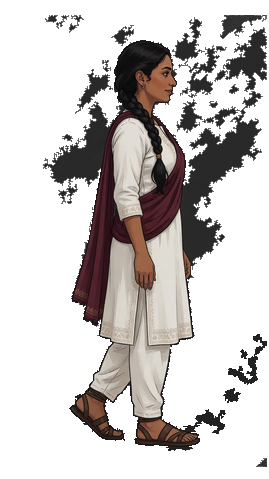
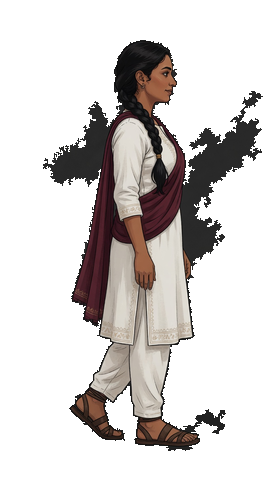
feat(pilgrimage): continue the road from tablets, transparent walkers, trickier Fade fakes

diff --git a/js/play.js b/js/play.js
@@ -1655,19 +1655,76 @@ function fadePhraseAsVerse(q, phrase){
   if(suffix) text += /^[.,;:!?]/.test(suffix) ? suffix : " " + suffix;
   return text;
 }
+/* One-word near-misses a skimming eye reads as the verse it memorized:
+   archaic-to-modern swaps, article flips and conjunction changes, first
+   occurrence only so every fake differs from the truth by a single word.
+   These replace the old always-different stock pads as the primary
+   reconstruction challenge. */
+const FADE_LINE_EDITS = [
+  [/^The\b/, "A"], [/^A\b/, "The"],
+  [/\bthe\b/, "a"], [/\ba\b/, "the"],
+  [/\bshall\b/, "will"], [/\bwill\b/, "shall"],
+  [/\bshould\b/, "would"], [/\bwould\b/, "should"],
+  [/\bthee\b/, "you"], [/\bthou\b/, "you"], [/\bthy\b/, "your"], [/\bthine\b/, "your"],
+  [/\bye\b/, "you"], [/\byou\b/, "ye"],
+  [/\bhath\b/, "has"], [/\bdoth\b/, "does"], [/\bdoeth\b/, "does"],
+  [/\bsaith\b/, "says"], [/\bgoeth\b/, "goes"], [/\bcometh\b/, "comes"],
+  [/\bmaketh\b/, "makes"], [/\btaketh\b/, "takes"], [/\bgiveth\b/, "gives"],
+  [/\bknoweth\b/, "knows"], [/\bloveth\b/, "loves"],
+  [/\bshew\b/, "show"], [/\bunto\b/, "to"], [/\bupon\b/, "on"],
+  [/\bamong\b/, "amongst"], [/\btoward\b/, "towards"],
+  [/\bheaven\b/, "heavens"], [/\bheavens\b/, "heaven"],
+  [/\bsin\b/, "sins"], [/\bword\b/, "words"], [/\bwords\b/, "word"],
+  [/\bverily\b/, "truly"], [/\bbehold\b/, "see"],
+  [/\bthis\b/, "that"], [/\bthese\b/, "those"], [/\bthose\b/, "these"],
+  [/\band\b/, "or"], [/\bor\b/, "and"]
+];
+function fadeLineEdits(text){
+  const out = [];
+  FADE_LINE_EDITS.forEach(function(rule){
+    if(!rule[0].test(text)) return;
+    const edited = text.replace(rule[0], rule[1]);
+    if(edited !== text && out.indexOf(edited) < 0) out.push(edited);
+  });
+  return out;
+}
 function fadePickChoices(q){
   const truth = fullVerseText(q);
   const seen = {};
   seen[truth] = 1;
-  const pads = (q.d || []).concat(["the shadow of the deep","a still small voice","the dust of the ground"]);
-  const fakes = [];
-  pads.forEach(function(d){
-    if(fakes.length >= 3) return;
-    const line = fadePhraseAsVerse(q, d);
-    if(!seen[line]){ seen[line] = 1; fakes.push(line); }
-  });
   const rnd = R.mode==="daily" && R.daily && R.daily.rnd ? R.daily.rnd : Math.random;
-  return shuffle([truth].concat(fakes.slice(0, 3)), rnd);
+  const fakes = [];
+  function pushFake(line){
+    line = String(line || "").trim();
+    if(!line || fakes.length >= 3 || seen[line]) return;
+    seen[line] = 1;
+    fakes.push(line);
+  }
+  /* 1) one-word edits of the memorized line — the trap that costs a lamp.
+     Three close fakes where the verse allows it; the eye must know the line. */
+  const edits = fadeLineEdits(truth);
+  while(edits.length && fakes.length < 3){
+    pushFake(edits.splice(Math.floor(rnd()*edits.length), 1)[0]);
+  }
+  /* 2) the verse's own designed decoy phrases */
+  (q.d || []).forEach(function(d){
+    pushFake(fadePhraseAsVerse(q, d));
+  });
+  /* 3) answers from sibling verses of the same book — same voice, different verse */
+  if(fakes.length < 3 && typeof VERSES !== "undefined" && VERSES.forEach){
+    const sibs = [];
+    VERSES.forEach(function(v){
+      if(v && v.b === q.b && v.id !== q.id && v.a && v.a !== q.a && sibs.indexOf(v.a) < 0) sibs.push(v.a);
+    });
+    while(sibs.length && fakes.length < 3){
+      pushFake(fadePhraseAsVerse(q, sibs.splice(Math.floor(rnd()*sibs.length), 1)[0]));
+    }
+  }
+  /* 4) the old stock pads survive only as a starving-bank fallback */
+  ["the shadow of the deep","a still small voice","the dust of the ground"].forEach(function(d){
+    pushFake(fadePhraseAsVerse(q, d));
+  });
+  return shuffle([truth].concat(fakes), rnd);
 }
 function fadeCleanupMemoryChrome(){
   ["fade-bar","fade-done"].forEach(function(id){

diff --git a/js/results.js b/js/results.js
@@ -591,8 +591,26 @@ function renderResultsHabit(){
   habitEl.style.display = "";
 }
 
+function resultsNextRoadContinue(){
+  if(R.mode!=="tablets" || !R.fromRoad) return null;
+  if(typeof Pilgrimage==="undefined" || typeof tabletsHeld==="function" && !tabletsHeld()) return null;
+  if(typeof Tablets!=="undefined" && Tablets.held && !Tablets.held(R)) return null;
+  var nxt = Pilgrimage.currentSite(SAVE.pilgrim);
+  if(!nxt || Pilgrimage.isCleared(SAVE.pilgrim, nxt.id)) return null;
+  var name = String(nxt.name||"").replace(/\s*\(.*\)$/, "");
+  return { name: name, label: "Continue · " + name, stop: nxt, go: function(){
+    if(nxt.kind === "tablets"){
+      startRun("tablets", R.diff.key, { tabletChapter: nxt.id, fromRoad: true });
+      return;
+    }
+    if(typeof openSiteBrief === "function"){ openSiteBrief(nxt.id, "pilgrimage"); return; }
+    pendingSiteId = nxt.id;
+    startRun("pilgrimage", R.diff.key);
+  }};
+}
 function resultsNextTablets(){
   if(R.mode!=="tablets" || typeof Tablets==="undefined" || !Tablets.nextPlayable) return null;
+  if(R.fromRoad) return null;
   const ch = Tablets.nextPlayable(R.tabletChapter, SAVE);
   if(!ch) return null;
   return { name: ch.name, go: function(){
@@ -645,7 +663,7 @@ function resultsNextRelay(){
   return null;
 }
 function resultsNextTarget(o){
-  return resultsNextTablets() || resultsNextPilgrim(o) || resultsNextRelay();
+  return resultsNextRoadContinue() || resultsNextTablets() || resultsNextPilgrim(o) || resultsNextRelay();
 }
 function bindResultsNext(o, autoUnlock){
   const nextBtn = $("res-next");
@@ -657,7 +675,7 @@ function bindResultsNext(o, autoUnlock){
     return;
   }
   nextBtn.style.display = "";
-  nextBtn.textContent = "Next · " + nxt.name;
+  nextBtn.textContent = nxt.label || ("Next · " + nxt.name);
   nextBtn.onclick = function(){
     Snd.unlock(); Snd.ui();
     nxt.go();
@@ -720,7 +738,30 @@ function renderResultsRoadChrome(o){
   return autoUnlock;
 }
 
+/* Held a tablet — the road continues on its own. After a beat on the
+   results screen the map flies to the next open site and its brief opens;
+   any button the player presses instead (another chapter, run it back,
+   the hall) cancels it through afterResults' run-token and view guards. */
+function scheduleTabletsRoadContinue(){
+  if(R.mode!=="tablets" || !tabletsHeld()) return;
+  if(typeof Pilgrimage==="undefined" || typeof Atlas==="undefined" || typeof openSiteBrief==="undefined") return;
+  const nxt = Pilgrimage.currentSite(SAVE.pilgrim);
+  if(!nxt || Pilgrimage.isCleared(SAVE.pilgrim, nxt.id)) return;
+  const siteName = String(nxt.name||"").replace(/\s*\(.*\)$/, "");
+  if(typeof toast === "function") toast("The Hold stands — the road continues to " + siteName);
+  afterResults(3200, function(){
+    Snd.ui();
+    go("atlas");
+    Atlas.focus(nxt.id, { duration: 1.6 });
+    if(nxt.kind === "tablets") return;
+    setTimeout(function(){
+      if(currentView!=="atlas") return;
+      openSiteBrief(nxt.id);
+    }, 1900);
+  });
+}
 function renderResultsRetryReview(o){
+  if(R.mode==="tablets") scheduleTabletsRoadContinue();
   const retryBtn = $("res-retry");
   const againBtn = $("res-again");
   if(againBtn) againBtn.style.display = R.mode==="tablets" ? "none" : "";

diff --git a/css/atlas.css b/css/atlas.css
@@ -150,13 +150,21 @@ body:not(:has(#v-atlas.on)) .route-line { animation-play-state: paused; }
   animation: unlockLabel 1.6s ease-out;
 }
 /* Standalone pilgrim marker (walks the road between sites). */
-.traveler-marker { pointer-events: none; z-index: 650 !important; }
+.traveler-marker {
+  pointer-events: none;
+  z-index: 650 !important;
+  background: transparent !important;
+  border: none !important;
+  box-shadow: none !important;
+}
 .traveler-node {
   position: absolute; left: -28px; top: -96px; width: 56px; height: 100px;
   pointer-events: none;
+  background: transparent !important;
 }
 .traveler-walker {
   display: block; width: 51.7px; height: 92px; margin: 0 auto;
+  background-color: transparent;
   background-image: var(--walker-idle, url("../assets/traveler/idle.png"));
   background-repeat: no-repeat;
   background-position: center bottom;
